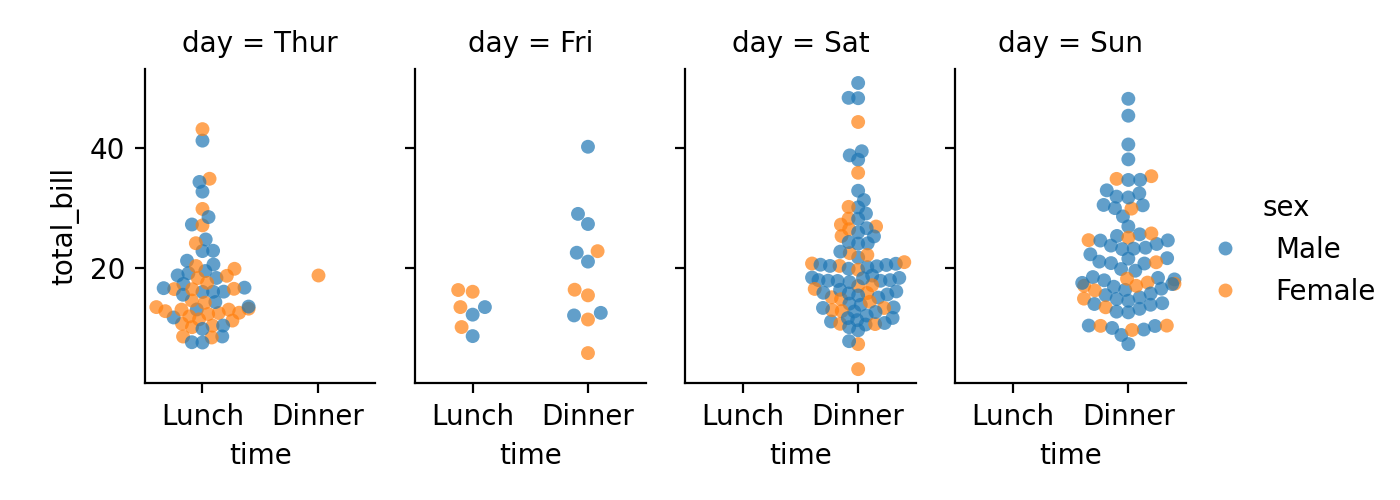
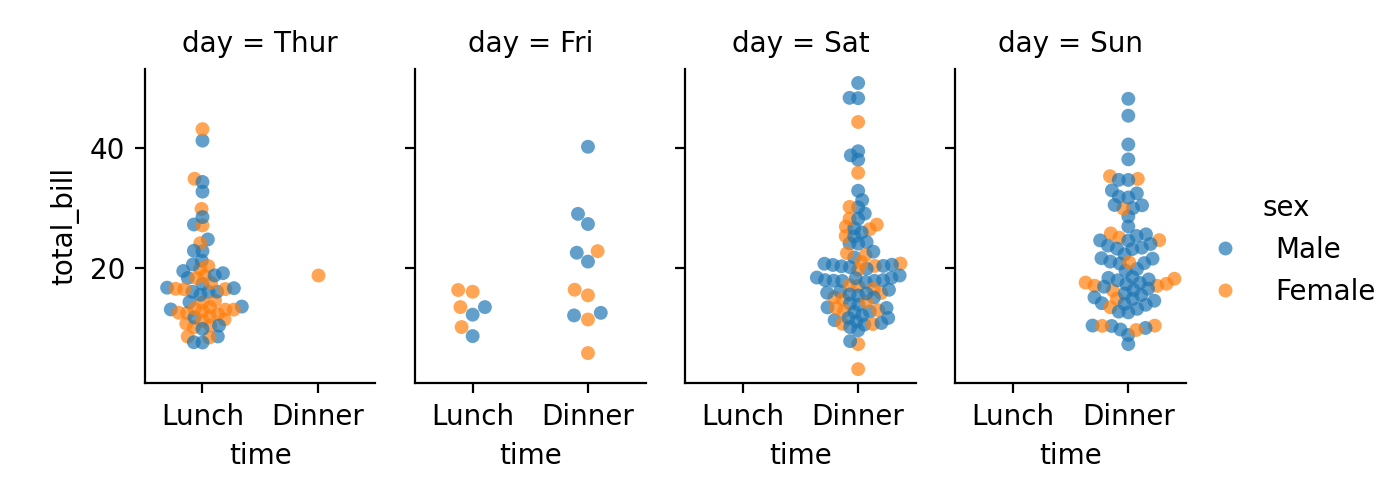
new version, addedd overflow param

diff --git a/betterbeeswarm/betterbeeswarm.py b/betterbeeswarm/betterbeeswarm.py
@@ -1,5 +1,9 @@
 from seaborn.categorical import Beeswarm as OriginalBeeswarm
+from seaborn.categorical import _CategoricalPlotter as OriginalCategoricalPlotter
 from seaborn.categorical import _get_transform_functions
+from seaborn.utils import _draw_figure
+from seaborn.utils import _scatter_legend_artist
+from matplotlib.markers import MarkerStyle
 import warnings
 import numpy as np
 
@@ -10,13 +14,22 @@ class Beeswarm(OriginalBeeswarm):
     the points and tries again. This is done until the points no longer
     overlap.
     """
-    def __init__(self, orient="x", width=0.8, warn_thresh=.05):
+    def __init__(self, orient="x", width=0.8, warn_thresh=.05, overflow="gutters"):
 
         self.orient = orient
         self.width = width
         self.warn_thresh = warn_thresh
-        self.gutters = False #BetterBeeswarm modification
-        self.shrink_factor = 0.9 #BetterBeeswarm modification
+
+        #BetterBeeswarm modifications
+        self.gutters = False
+        self.shrink_factor = 0.9
+        self.overflow = overflow
+        if overflow == "gutters":
+            self.keep_gutters = True
+        elif overflow in ["shrink", "random"]:
+            self.keep_gutters = False
+        else:
+            raise ValueError("overflow must be 'gutters', 'shrink', or 'random'")
 
     def __call__(self, points, center):
         """Swarm `points`, a PathCollection, around the `center` position."""
@@ -74,27 +87,42 @@ class Beeswarm(OriginalBeeswarm):
                 new_xy = new_xyr[:, :2]
             new_x_data, new_y_data = ax.transData.inverted().transform(new_xy).T
 
-            # Add gutters
+            # Add gutters or randomize points if they overflow
             t_fwd, t_inv = _get_transform_functions(ax, self.orient)
-            if self.orient == "y":
-                self.add_gutters(new_y_data, center, t_fwd, t_inv)
-            else:
-                self.add_gutters(new_x_data, center, t_fwd, t_inv)
 
-            # Reposition the points so they do not overlap
-            if self.orient == "y":
-                points.set_offsets(np.c_[orig_x_data, new_y_data])
-            else:
-                points.set_offsets(np.c_[new_x_data, orig_y_data])
+            if self.overflow == "random":
 
-            # Check if gutters were added
-            if self.gutters:
-                # Shrink the radii and try again
-                radii = radii * radius_shrink_factor
-                original_radius_fraction = original_radius_fraction * radius_shrink_factor
-                print(f"Shrinking radii to the {original_radius_fraction * 100}% of the original point size.")
-            else:
+                if self.orient == "y":
+                    self.add_randomly(new_y_data, center, t_fwd, t_inv)
+                else:
+                    self.add_randomly(new_x_data, center, t_fwd, t_inv)
                 checking_gutters = False
+
+            elif self.overflow in ["gutters", "shrink"]:
+
+                if self.orient == "y":
+                    self.add_gutters(new_y_data, center, t_fwd, t_inv)
+                else:
+                    self.add_gutters(new_x_data, center, t_fwd, t_inv)
+
+                if self.overflow == "gutters":
+                    checking_gutters = False
+
+                elif self.overflow == "shrink":
+                    # Check if there were gutters added
+                    if self.gutters == True:
+                        # if so, shrink the radii and try again
+                        radii = radii * radius_shrink_factor
+                        original_radius_fraction = original_radius_fraction * radius_shrink_factor
+                        print(f"Shrinking radii to the {original_radius_fraction * 100}% of the original point size.")
+                    else:
+                        checking_gutters = False
+
+        # Reposition the points so they do not overlap
+        if self.orient == "y":
+            points.set_offsets(np.c_[orig_x_data, new_y_data])
+        else:
+            points.set_offsets(np.c_[new_x_data, orig_y_data])
 
     def add_gutters(self, points, center, trans_fwd, trans_inv):
         """Stop points from extending beyond their territory."""
@@ -111,16 +139,120 @@ class Beeswarm(OriginalBeeswarm):
         gutter_prop = (off_high + off_low).sum() / len(points)
         if gutter_prop > self.warn_thresh:
             msg = (
-                "{:.1%} of the points cannot be placed; you may want "
-                "to decrease the size of the markers or use stripplot."
-                f"Using BetterBeeswarm to iteratively shrink points by {(1 - self.shrink_factor) * 100:.1f}%"
+                "{:.1%} of the points cannot be placed as swarm; you may want to decrease"
+                " the size of the markers, use stripplot, or set overflow='shrink'."
             ).format(gutter_prop)
             warnings.warn(msg, UserWarning)
         
         #BetterBeeswarm modified
+        if gutter_prop > 0:
             self.gutters = True
         else:
             self.gutters = False
         #end BetterBeeswarm modification
 
         return points
+    
+    def add_randomly(self, points, center, trans_fwd, trans_inv):
+        """Randomly place points within the width of the bounds."""
+        half_width = self.width / 2
+        low_bound = trans_inv(trans_fwd(center) - half_width)
+        high_bound = trans_inv(trans_fwd(center) + half_width)
+
+        off_low = points < low_bound
+        off_high = points > high_bound
+
+        if off_low.any() or off_high.any():
+            points[off_low] = np.random.uniform(low_bound, high_bound, size=off_low.sum())
+            points[off_high] = np.random.uniform(low_bound, high_bound, size=off_high.sum())
+
+        gutter_prop = (off_high + off_low).sum() / len(points)
+        if gutter_prop > self.warn_thresh:
+            msg = (
+                "{:.1%} of the points cannot be placed as swarm; you may want to decrease"
+                " the size of the markers, use stripplot, or set overflow='shrink'."
+            ).format(gutter_prop)
+            warnings.warn(msg, UserWarning)
+
+class __CategoricalPlotter(OriginalCategoricalPlotter):
+    def plot_swarms(
+        self,
+        dodge,
+        color,
+        warn_thresh,
+        plot_kws,
+    ):
+
+        width = .8 * self._native_width
+        offsets = self._nested_offsets(width, dodge)
+
+        iter_vars = [self.orient]
+        if dodge:
+            iter_vars.append("hue")
+
+        ax = self.ax
+        point_collections = {}
+        dodge_move = 0
+
+        if "marker" in plot_kws and not MarkerStyle(plot_kws["marker"]).is_filled():
+            plot_kws.pop("edgecolor", None)
+        
+        if "overflow" in plot_kws:
+            overflow = plot_kws.pop("overflow")
+        plot_kws.pop("overflow", None)
+
+        for sub_vars, sub_data in self.iter_data(iter_vars,
+                                                 from_comp_data=True,
+                                                 allow_empty=True):
+
+            ax = self._get_axes(sub_vars)
+
+            if offsets is not None:
+                dodge_move = offsets[sub_data["hue"].map(self._hue_map.levels.index)]
+
+            if not sub_data.empty:
+                sub_data[self.orient] = sub_data[self.orient] + dodge_move
+
+            self._invert_scale(ax, sub_data)
+
+            points = ax.scatter(sub_data["x"], sub_data["y"], color=color, **plot_kws)
+            if "hue" in self.variables:
+                points.set_facecolors(self._hue_map(sub_data["hue"]))
+
+            if not sub_data.empty:
+                point_collections[(ax, sub_data[self.orient].iloc[0])] = points
+
+        beeswarm = Beeswarm(width=width, orient=self.orient, warn_thresh=warn_thresh, overflow=overflow)
+        for (ax, center), points in point_collections.items():
+            if points.get_offsets().shape[0] > 1:
+
+                def draw(points, renderer, *, center=center):
+
+                    beeswarm(points, center)
+
+                    if self.orient == "y":
+                        scalex = False
+                        scaley = ax.get_autoscaley_on()
+                    else:
+                        scalex = ax.get_autoscalex_on()
+                        scaley = False
+
+                    # This prevents us from undoing the nice categorical axis limits
+                    # set in _adjust_cat_axis, because that method currently leave
+                    # the autoscale flag in its original setting. It may be better
+                    # to disable autoscaling there to avoid needing to do this.
+                    fixed_scale = self.var_types[self.orient] == "categorical"
+                    ax.update_datalim(points.get_datalim(ax.transData))
+                    if not fixed_scale and (scalex or scaley):
+                        ax.autoscale_view(scalex=scalex, scaley=scaley)
+
+                    super(points.__class__, points).draw(renderer)
+
+                points.draw = draw.__get__(points)
+
+        _draw_figure(ax.figure)
+        self._configure_legend(ax, _scatter_legend_artist, plot_kws)
+
+import seaborn as sns
+sns.categorical.Beeswarm = Beeswarm
+sns.categorical._CategoricalPlotter = __CategoricalPlotter

diff --git a/example.py b/example.py
@@ -1,0 +1,45 @@
+# Default
+import seaborn as sns
+import matplotlib.pyplot as plt
+tips = sns.load_dataset("tips")
+
+plt.figure(figsize=(4, 4)) # set figure size
+sns.swarmplot(data=tips, x="size", y="total_bill", hue="size", alpha=0.7, palette='viridis')
+plt.savefig('native_beeswarm.png', dpi=200)
+
+# Example 1
+import seaborn as sns
+import betterbeeswarm
+import matplotlib.pyplot as plt
+tips = sns.load_dataset("tips")
+
+plt.figure(figsize=(4, 4)) # set figure size
+sns.swarmplot(data=tips, x="size", y="total_bill", hue="size", palette='viridis', size=5, alpha=0.7, overflow='shrink')
+
+# #modify marks to have black border
+# plt.setp(plt.gca().collections, edgecolor="black", linewidth=.5)
+# for collection in plt.gca().collections:
+#     collection.set_edgecolor((0, 0, 0, 1))  # RGBA tuple where A is the alpha channel
+#     collection.set_facecolor((1, 1, 1, 0))  # RGBA tuple where A is the alpha channel
+
+plt.savefig('betterbeeswarm_shrink.png', dpi=200)
+
+# Example 2
+import seaborn as sns
+import betterbeeswarm
+import matplotlib.pyplot as plt
+tips = sns.load_dataset("tips")
+
+plt.figure(figsize=(4, 4)) # set figure size
+sns.swarmplot(data=tips, x="size", y="total_bill", hue="size", palette='viridis', size=5, alpha=0.7, overflow='random')
+plt.savefig('betterbeeswarm_random.png', dpi=200)
+
+# Example 3
+import seaborn as sns
+import betterbeeswarm
+tips = sns.load_dataset("tips")
+
+sns.catplot(
+    data=tips, kind="swarm", x="time", y="total_bill", hue="sex", 
+    col="day", aspect=0.6, height=2.5, alpha=0.7, size=5, overflow='shrink')
+plt.savefig('betterbeeswarm_cat.png', dpi=200)

diff --git a/betterbeeswarm/__init__.py b/betterbeeswarm/__init__.py
@@ -1,1 +1,1 @@
-from .betterbeeswarm import Beeswarm
+from .betterbeeswarm import Beeswarm, __CategoricalPlotter

diff --git a/README.md b/README.md
@@ -14,10 +14,11 @@ pip install --upgrade betterbeeswarm
 To use BetterBeeswarm instead of the standard Seaborn Beeswarm, type the following each time you import the `seaborn` library:
 
 ```python
-from betterbeeswarm import Beeswarm
 import seaborn as sns
-sns.categorical.Beeswarm = Beeswarm
+import betterbeeswarm
 ```
+
+When using swarmplot, you can now add additional `overflow` argument which can be set to `overflow='gutters'` (default), `overflow='shrink'`, or `overflow='random'`.
 
 ## Examples
 ### Default
@@ -39,20 +40,35 @@ sns.swarmplot(data=tips, x="size", y="total_bill", hue="size", alpha=0.7, palett
 Default behaviour of native `Seaborn` can be modifies with `BetterBeeswarm` as follows:
 
 ```python
-from betterbeeswarm import Beeswarm
 import seaborn as sns
-sns.categorical.Beeswarm = Beeswarm
+import betterbeeswarm
 import matplotlib.pyplot as plt
 tips = sns.load_dataset("tips")
 
 plt.figure(figsize=(4, 4)) # set figure size
-sns.swarmplot(data=tips, x="size", y="total_bill", hue="size", alpha=0.7, palette='viridis')
+sns.swarmplot(data=tips, x="size", y="total_bill", hue="size", alpha=0.7, palette='viridis', overflow="shrink")
 ```
 <p align="center">
-    <img src="https://raw.githubusercontent.com/tvarovski/BetterBeeswarm/main/examples/betterbeeswarm.png" width="500" height="500">
+    <img src="https://raw.githubusercontent.com/tvarovski/BetterBeeswarm/main/examples/betterbeeswarm_shrink.png" width="500" height="500">
 </p>
 
 ### Example 2
+Same as Example 1 but with `overflow='random'`:
+
+```python
+import seaborn as sns
+import betterbeeswarm
+import matplotlib.pyplot as plt
+tips = sns.load_dataset("tips")
+
+plt.figure(figsize=(4, 4)) # set figure size
+sns.swarmplot(data=tips, x="size", y="total_bill", hue="size", alpha=0.7, palette='viridis', overflow="random")
+```
+<p align="center">
+    <img src="https://raw.githubusercontent.com/tvarovski/BetterBeeswarm/main/examples/betterbeeswarm_random.png" width="500" height="500">
+</p>
+
+### Example 3
 `BetterBeeswarm` also works for categorical plots and any time Seaborn's `Beeswarm` class is used:
 
 ```python
@@ -64,7 +80,7 @@ tips = sns.load_dataset("tips")
 sns.catplot(
     data=tips, kind="swarm",
     x="time", y="total_bill", hue="sex", col="day",
-    aspect=0.6, height=2.5, alpha=0.7, size=5
+    aspect=0.6, height=2.5, alpha=0.7, size=5, overflow="shrink"
 )
 ```
 <p align="center">
